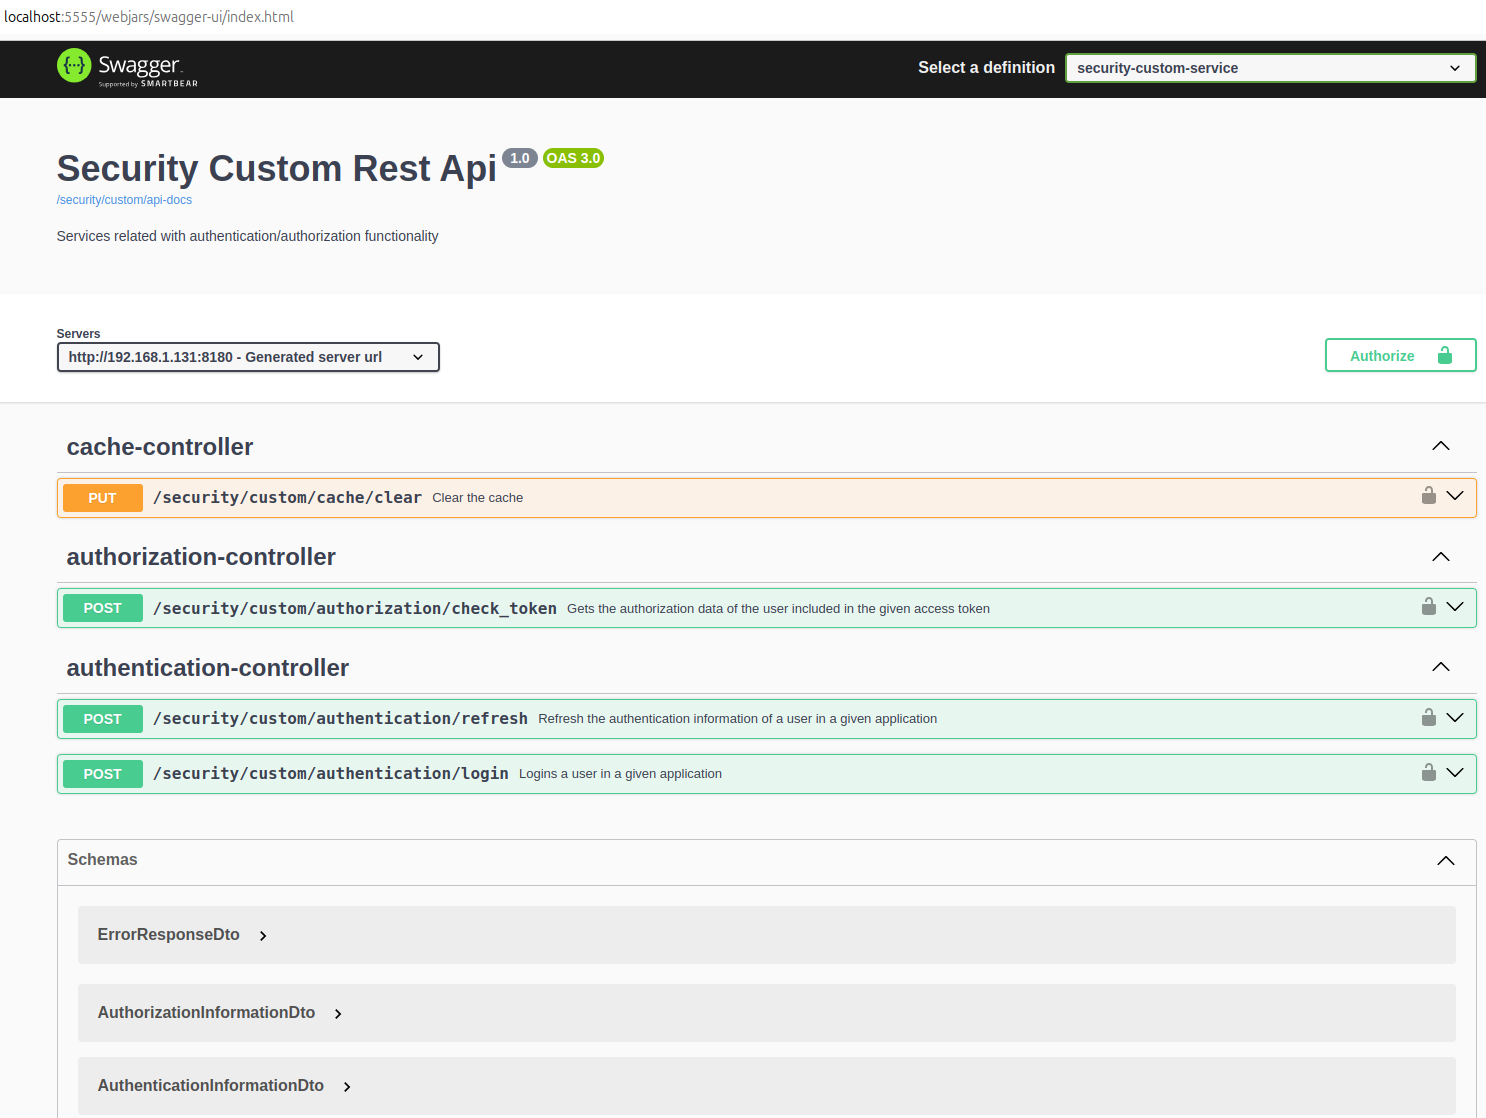
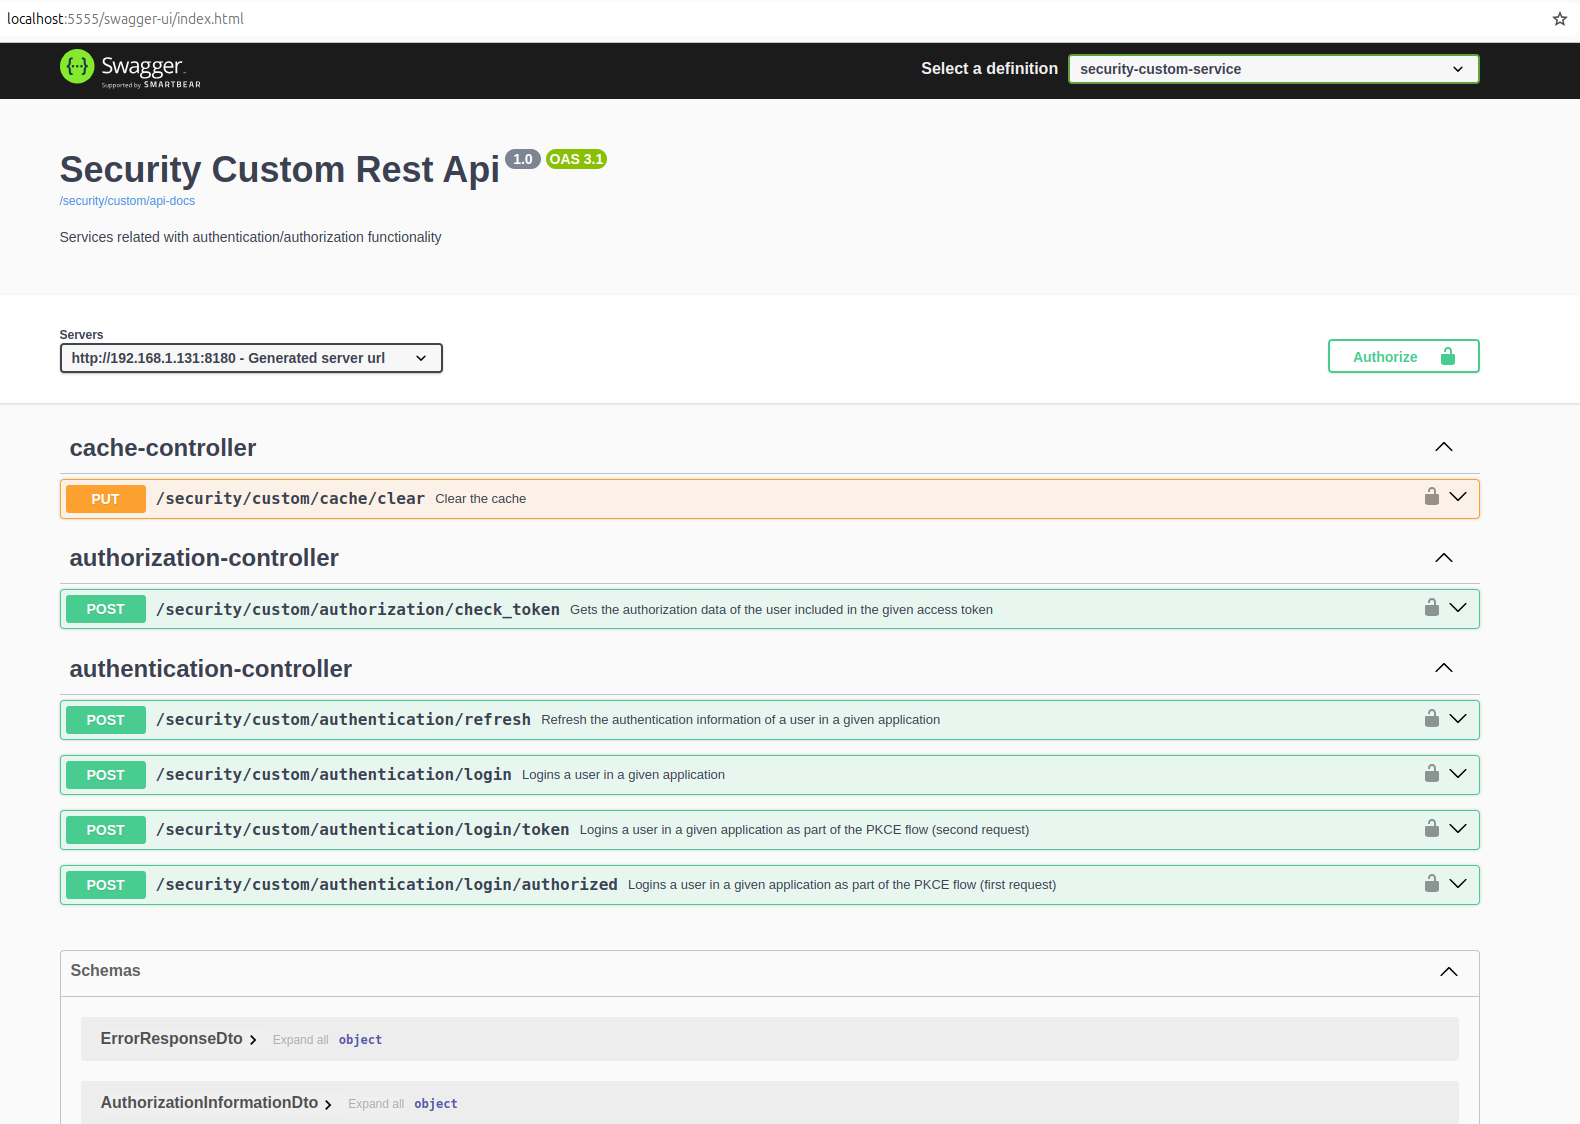
Fixed a problem in the SpringDoc configuration and upgraded some internal dependencies

diff --git a/security-custom-service/src/main/java/com/security/custom/configuration/documentation/DocumentationConfiguration.java b/security-custom-service/src/main/java/com/security/custom/configuration/documentation/DocumentationConfiguration.java
@@ -1,5 +1,6 @@
 package com.security.custom.configuration.documentation;
 
+import com.security.custom.configuration.rest.RestRoutes;
 import io.swagger.v3.oas.models.Components;
 import io.swagger.v3.oas.models.OpenAPI;
 import io.swagger.v3.oas.models.info.Info;
@@ -10,6 +11,8 @@ import org.springframework.beans.factory.annotation.Value;
 import org.springframework.context.annotation.Bean;
 import org.springframework.context.annotation.Configuration;
 
+import static org.springdoc.core.utils.Constants.SWAGGER_UI_PREFIX;
+
 @Configuration
 @Getter
 public class DocumentationConfiguration {
@@ -19,6 +22,13 @@ public class DocumentationConfiguration {
 
     @Value("${springdoc.swagger-ui.path}")
     private String apiUiUrl;
+
+    /**
+     *    Required to configure the String Security because SpringDoc does an internal redirection from
+     * {@link DocumentationConfiguration#apiUiUrl} to {@code http://server:port/context-path/}
+     * {@link org.springdoc.core.utils.Constants#SWAGGER_UI_PREFIX}
+     */
+    private final String internalApiUiPrefix = RestRoutes.ROOT + SWAGGER_UI_PREFIX;
 
     @Value("${springdoc.documentation.apiVersion}")
     private String apiVersion;
@@ -34,9 +44,6 @@ public class DocumentationConfiguration {
 
     @Value("${springdoc.security.schema}")
     private String securitySchema;
-
-    @Value("${springdoc.webjars.prefix}")
-    private String webjarsUrl;
 
 
     /**

diff --git a/security-custom-service/src/main/java/com/security/custom/configuration/security/WebSecurityConfiguration.java b/security-custom-service/src/main/java/com/security/custom/configuration/security/WebSecurityConfiguration.java
@@ -1,7 +1,6 @@
 package com.security.custom.configuration.security;
 
 import com.security.custom.configuration.documentation.DocumentationConfiguration;
-import com.security.custom.configuration.rest.RestRoutes;
 import org.springframework.context.annotation.Bean;
 import org.springframework.context.annotation.Configuration;
 import org.springframework.security.config.Customizer;
@@ -142,7 +141,7 @@ public class WebSecurityConfiguration {
                 SPRING_ACTUATOR_PATH + ALLOW_ALL_ENDPOINTS,
                 documentationConfiguration.getApiDocsPath() + ALLOW_ALL_ENDPOINTS,
                 documentationConfiguration.getApiUiUrl(),
-                RestRoutes.ROOT + documentationConfiguration.getWebjarsUrl() + ALLOW_ALL_ENDPOINTS
+                documentationConfiguration.getInternalApiUiPrefix() + ALLOW_ALL_ENDPOINTS
         };
     }
 

diff --git a/common-spring/src/test/java/com/spring6microservices/common/spring/dto/AddressDto.java b/common-spring/src/test/java/com/spring6microservices/common/spring/dto/AddressDto.java
@@ -1,7 +1,6 @@
 package com.spring6microservices.common.spring.dto;
 
 import com.spring6microservices.common.spring.validator.string.ContainsAnyProvidedString;
-import jakarta.validation.constraints.Size;
 import lombok.AllArgsConstructor;
 import lombok.Data;
 import lombok.EqualsAndHashCode;
@@ -24,7 +23,6 @@ public class AddressDto {
     @ContainsAnyProvidedString(
             anyOf = { "Canarias", "Andalucia"}
     )
-    @Size
     private String state;
 
 }

diff --git a/security-custom-service/src/main/java/com/security/custom/util/HashUtil.java b/security-custom-service/src/main/java/com/security/custom/util/HashUtil.java
@@ -59,7 +59,7 @@ public class HashUtil {
 
 
     /**
-     * Converts given {@code hash} in a {@link String}
+     * Converts given {@code hash} in a {@link String}.
      *
      * @param hash
      *    Byte array to convert

diff --git a/README.md b/README.md
@@ -301,7 +301,7 @@ The following microservices have a well documented Rest API:
 To facilitate access to this documentation, we can use the [gateway-server](#gateway-server) URL. On that way, using the upper selector: *Select a definition*,
 we will be able to choose between all existing microservices.
 
-In local (**dev** profile), the url to access them is `http://localhost:5555/webjars/swagger-ui/index.html`
+In local (**dev** profile), the url to access them is `http://localhost:5555/swagger-ui/index.html`
 
 ![Alt text](/documentation/Swagger.png?raw=true "Swagger documentation")
 <br><br>
